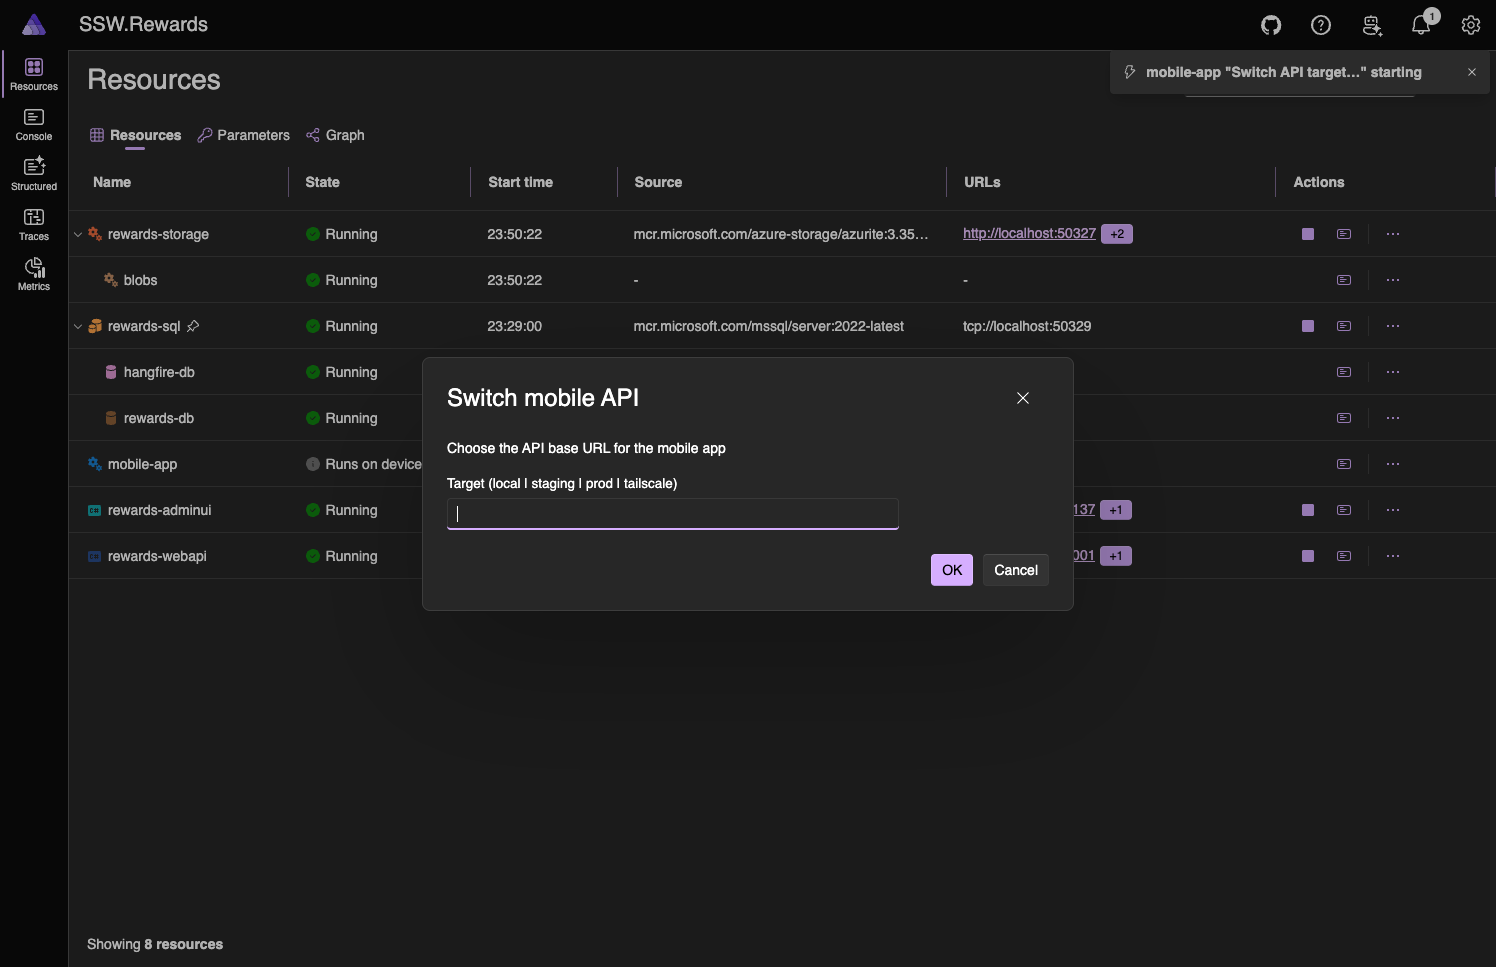
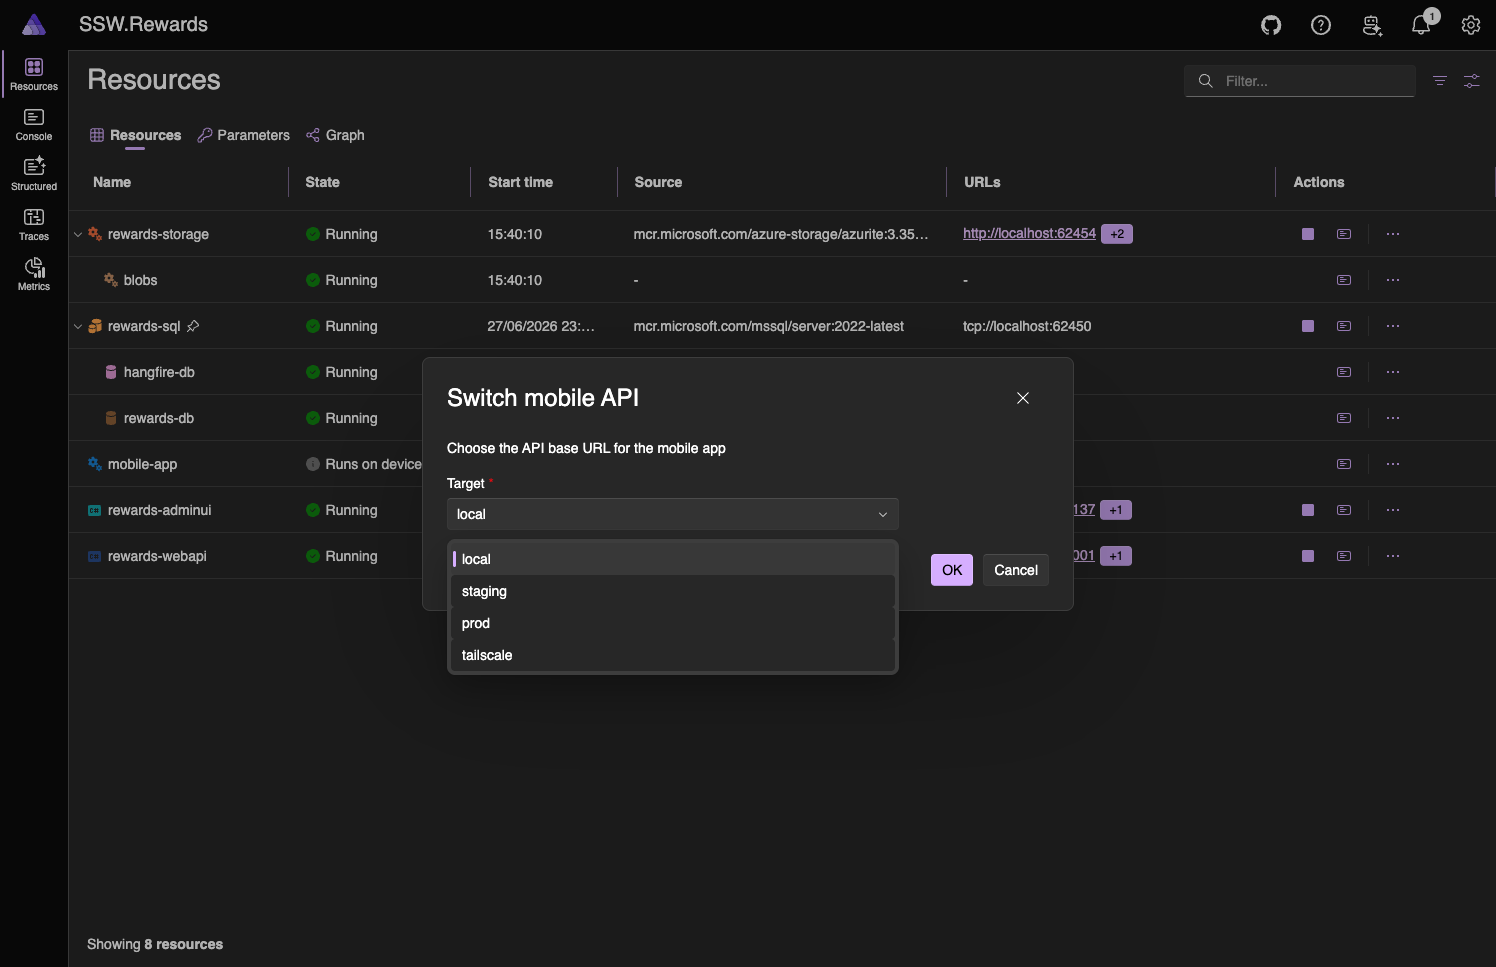
docs(aspire): refresh command-dialog screenshot to show the Target dropdown
The Switch API/identity prompts are now dropdowns (InputType.Choice). Recapture
the dialog with the Target list expanded (local/staging/prod/tailscale) and update
the caption to describe it as a dropdown.

diff --git a/_docs/Aspire-Local-Dev.md b/_docs/Aspire-Local-Dev.md
@@ -46,9 +46,10 @@ The dashboard groups the local-dev chores under two resources (Actions ▸ Comma
 
 <img src="imgs/aspire-mobile-commands.png" alt="mobile-app Actions menu expanded showing the Commands flyout with Show current target, Switch API target, API to Tailscale, Switch identity target, Tailscale Status, Materialize Firebase secrets and MAUI workload restore" width="900" />
 
-Commands that need input (e.g. **Switch API target…**) open a masked prompt right in the dashboard:
+Commands that need input (e.g. **Switch API target…**) open a prompt right in the dashboard. Target
+pickers are **dropdowns** (local / staging / prod / tailscale) — no typos, valid by construction:
 
-<img src="imgs/aspire-command-dialog.png" alt="Switch mobile API dialog prompting for the target: local, staging, prod or tailscale" width="900" />
+<img src="imgs/aspire-command-dialog.png" alt="Switch mobile API dialog with a Target dropdown expanded showing the options local, staging, prod and tailscale" width="900" />
 
 **On `rewards-sql` (database + tooling):**
 - **DB: Apply migrations** / **Add migration…** — EF update / add (prompts for the name)
